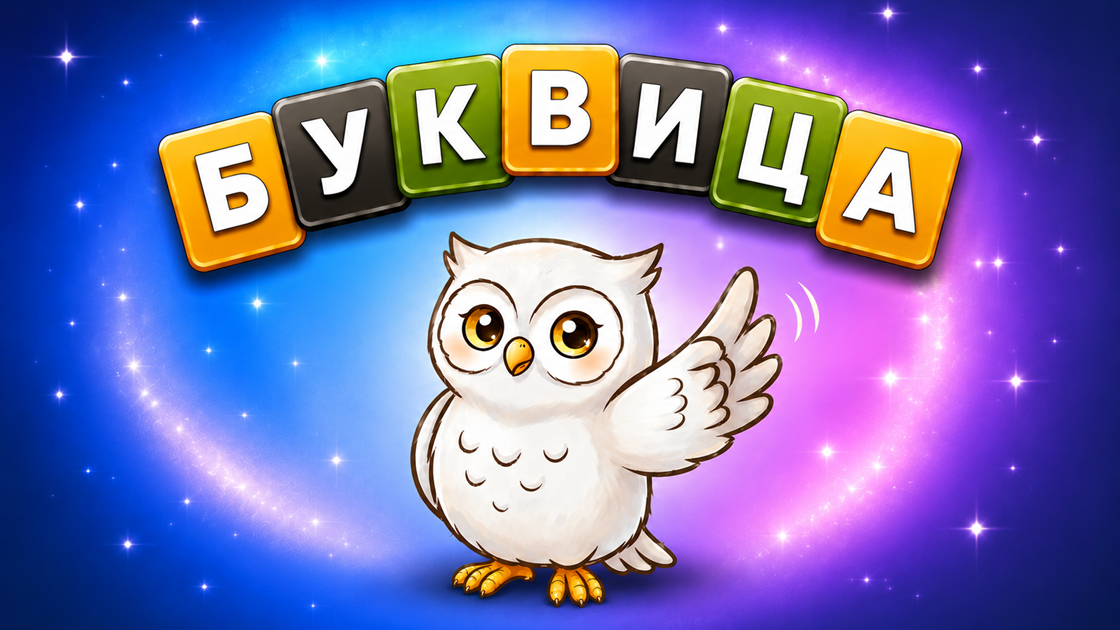
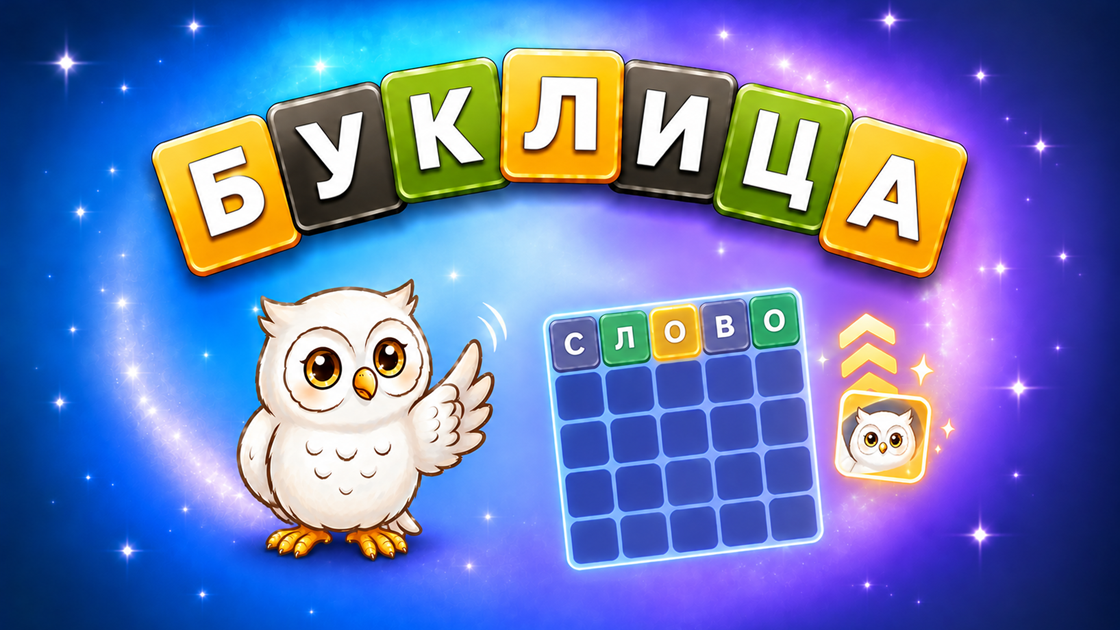
assets: VK snippet from the new Буклица poster

diff --git a/tasks/todo.md b/tasks/todo.md
@@ -227,7 +227,8 @@ SQL применён в боевом проекте, ключ приложени
 - [x] Проверить каталог Яндекса: «Буквица» занята живой игрой, «Буклица» свободна
 - [x] Заменить название в коде и текстах (21 упоминание, 14 файлов)
 - [x] Плитки с названием в генераторе скриншотов (`marketing/yandex-screens.html`)
-- [ ] Логотип и плакат — перерисовывает автор, из них нарезать иконки и сниппет
+- [x] Плакат перерисован: сниппет VK 1120×630 и обложка Яндекса 800×470 (`Сова/Плакат новый 2 800х470.png`)
+- [ ] Логотип — перерисовывает автор, из него нарезать иконки 576/278/150/32
 - [ ] Перевыпустить маркетинговые скриншоты с новым названием
 - [ ] Сменить название в кабинетах VK и Яндекса (руками)
 - [ ] Домен веб-версии bukvitsa.vercel.app — решить, переезжаем ли

diff --git a/tasks/vk-publish.md b/tasks/vk-publish.md
@@ -92,7 +92,7 @@ npm run deploy:vk
   с названием сливаются в полосу. Каталожную VK разрешает менять не чаще
   2 раз в 2 недели;
 - **большой сниппет** (раздел «Оформление» → «Изображения») —
-  `snippet-1120x630.png`, из плаката с совой; название вверху, потому что
+  `snippet-1120x630.png`, из плаката «Буклица» (`Сова/Плакат новый 2.png`, срез y 21..941); название вверху, потому что
   низ картинки VK перекрывает своим текстом;
 - **скриншоты** — ориентация **книжная**, восемь файлов по порядку:
   `vk-promo-1-main`, `-2-pet`, `-3-modes`, `-4-bgs`, `-5-mini`,
